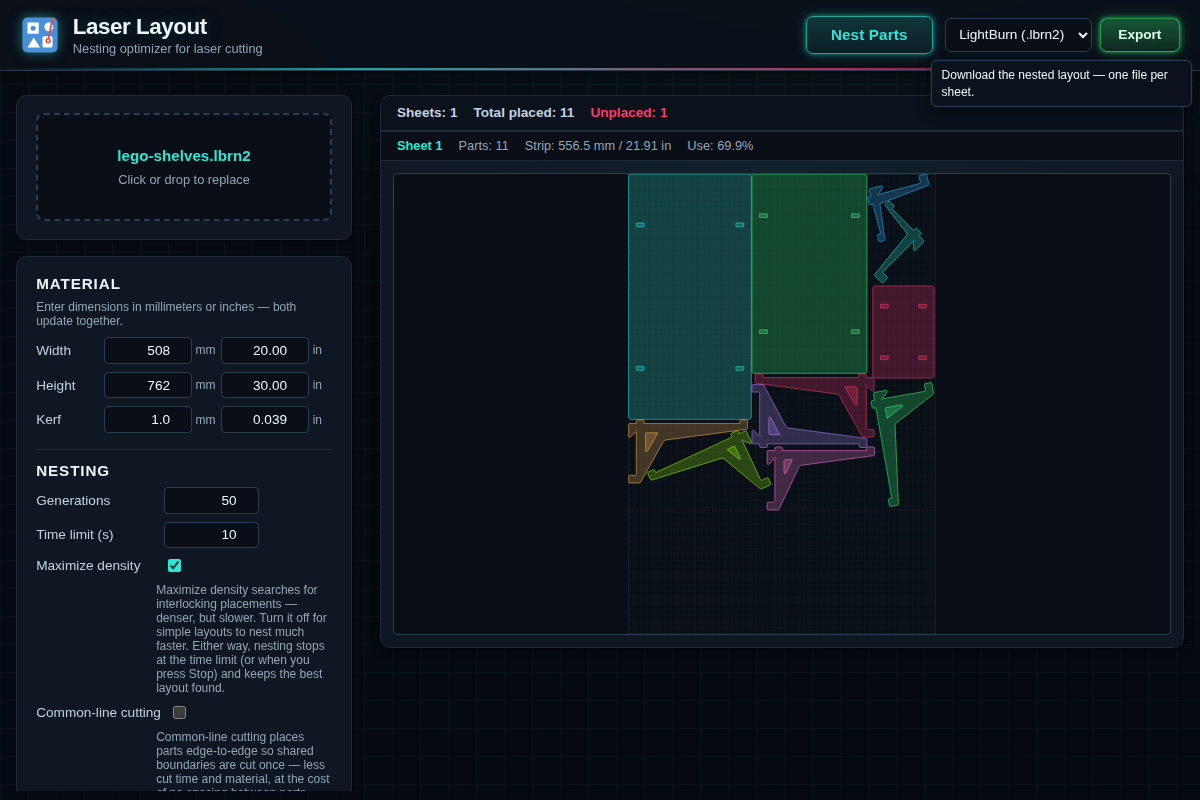
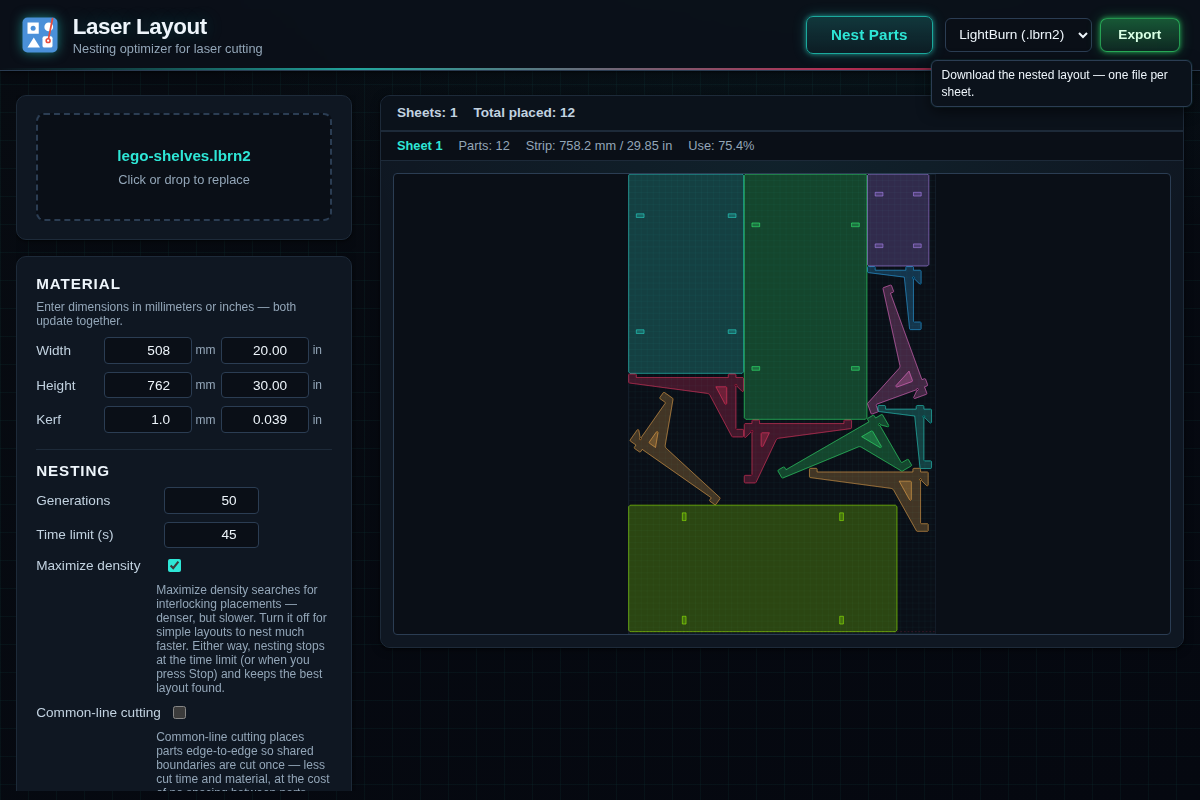
docs: nest all parts in screenshot (45s budget)
A 10s time budget left the last lego-shelves part unplaced in density mode.
Raise the screenshot run to 45s so the captured nest is complete — all 12
parts on a single sheet, no overflow.

Claude-Session: https://claude.ai/code/session_019dEF4zx69dmFCQBeAS3zkL

Changed region(s): [[0.5242, 0.2188, 0.8017, 0.8125], [0.4317, 0.125, 0.6475, 0.1875]]

diff --git a/e2e/screenshot.spec.ts b/e2e/screenshot.spec.ts
@@ -18,9 +18,10 @@ test('take screenshot of nested layout', async ({ page }) => {
   await nestBtn.waitFor({ timeout: 30000 });
   await page.locator('button.nest-btn:not([disabled])').waitFor({ timeout: 30000 });
 
-  // Cap the nesting time so the run converges quickly for the screenshot.
+  // Give the dense lego-shelves fixture enough time to place every part in
+  // density mode — a short budget leaves the last part unplaced.
   const timeLimit = page.locator('#time-budget');
-  await timeLimit.fill('10');
+  await timeLimit.fill('45');
   await timeLimit.blur();
 
   // Click "Nest Parts" button